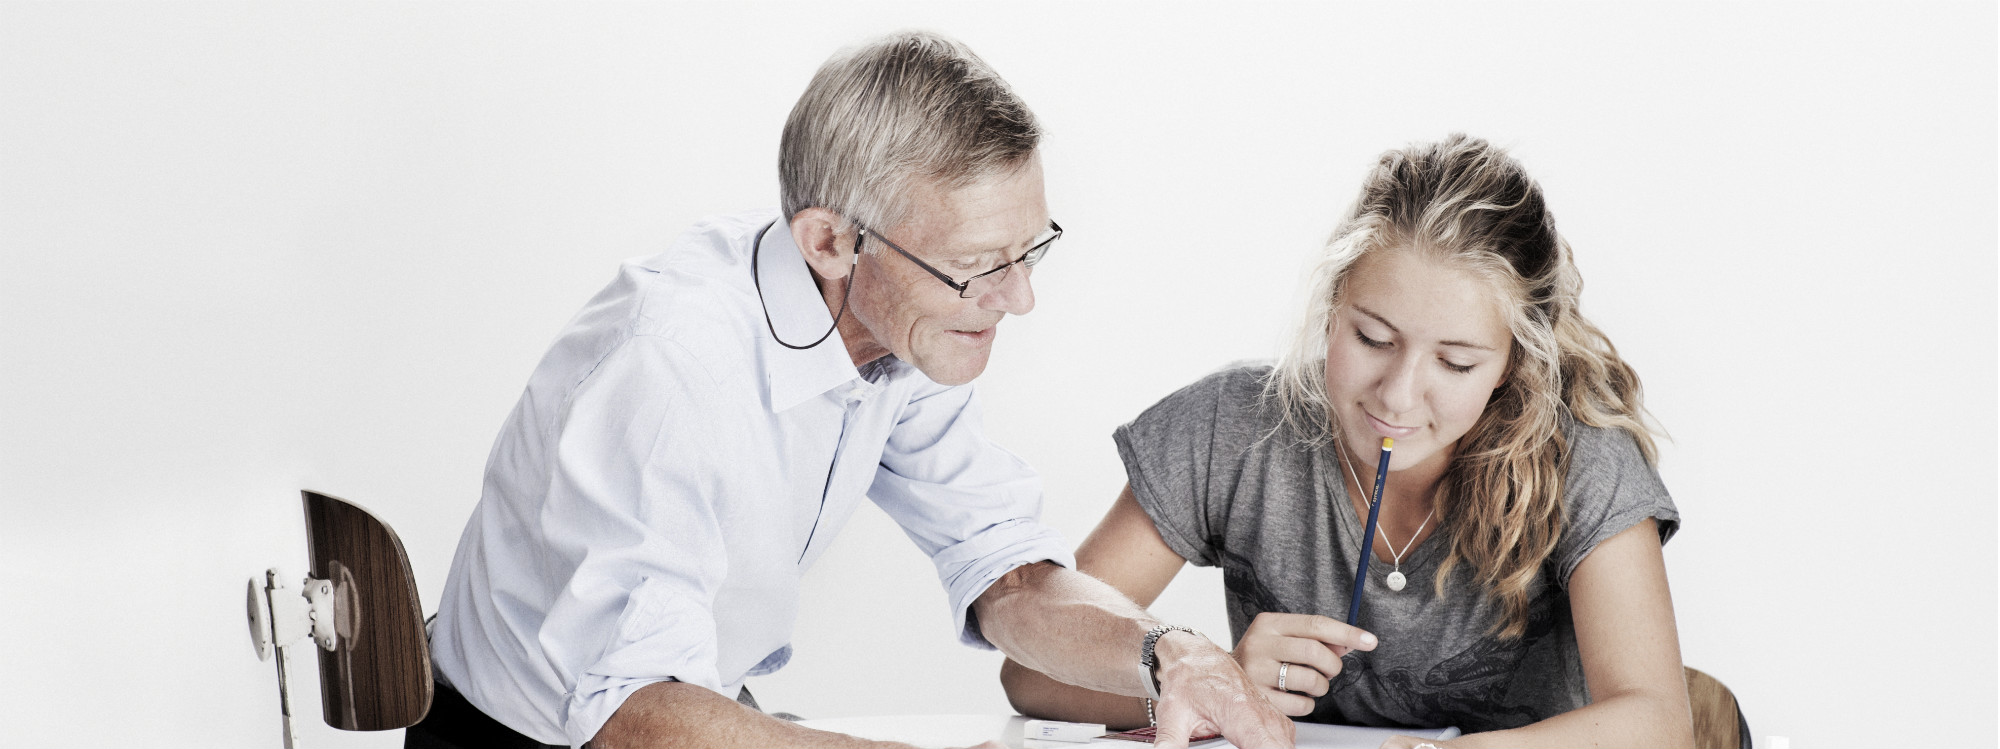
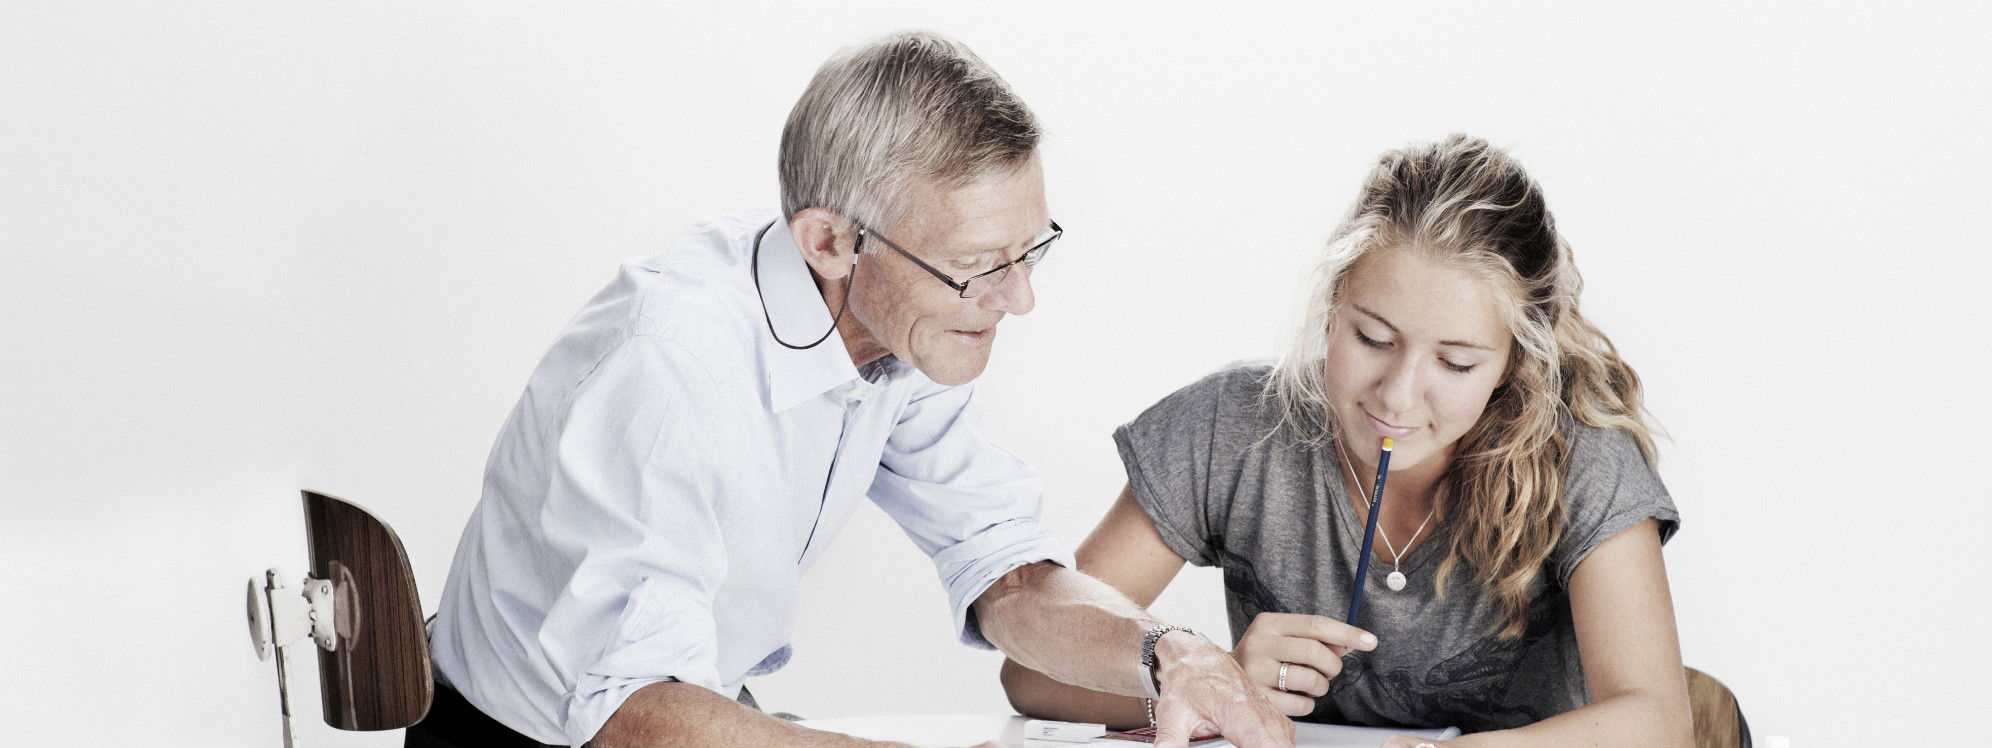
Move background picture to the left according to design. - Add media query to remove bg-picture on smaller devices

diff --git a/client/stylesheets/digital-leksehjelp.css b/client/stylesheets/digital-leksehjelp.css
@@ -72,14 +72,21 @@ hr {
     color:#aaa !important;
 }
 
+/* Width based on Twitter Bootstrap media queries */
+@media (min-width: 992px) {
+    #main {
+        background: url('../../omsorg_resized_50_quality_cropped.jpg') no-repeat;
+    }
+}
+
 #main {
     width: 100%;
     position: relative;
     padding: 20px 0;
-    background: url('../../omsorg_resized_50_quality_cropped.jpg') no-repeat;
     background-color: #f0f0f0;
-    -webkit-background-size: contain;
-    -moz-background-size: contain;
-    -o-background-size: contain;
-    background-size: contain;
+    background-position: -150px;
+    -webkit-background-size: auto 100%;
+    -moz-background-size: auto 100%;
+    -o-background-size: auto 100%;
+    background-size: auto 100%;
 }
